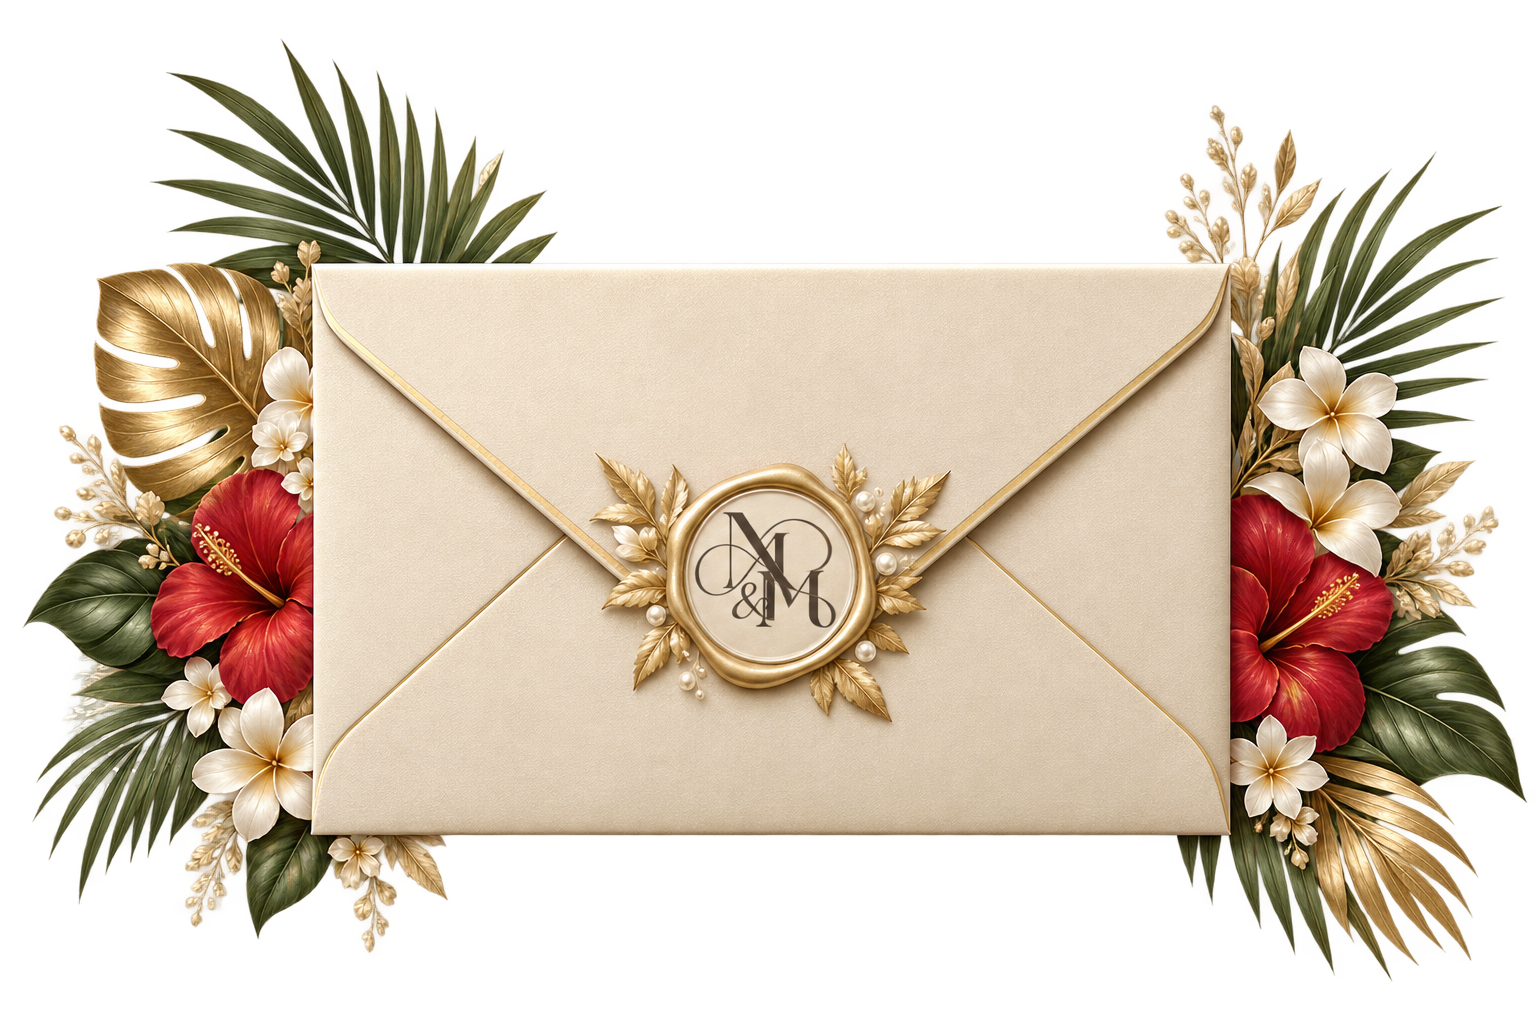
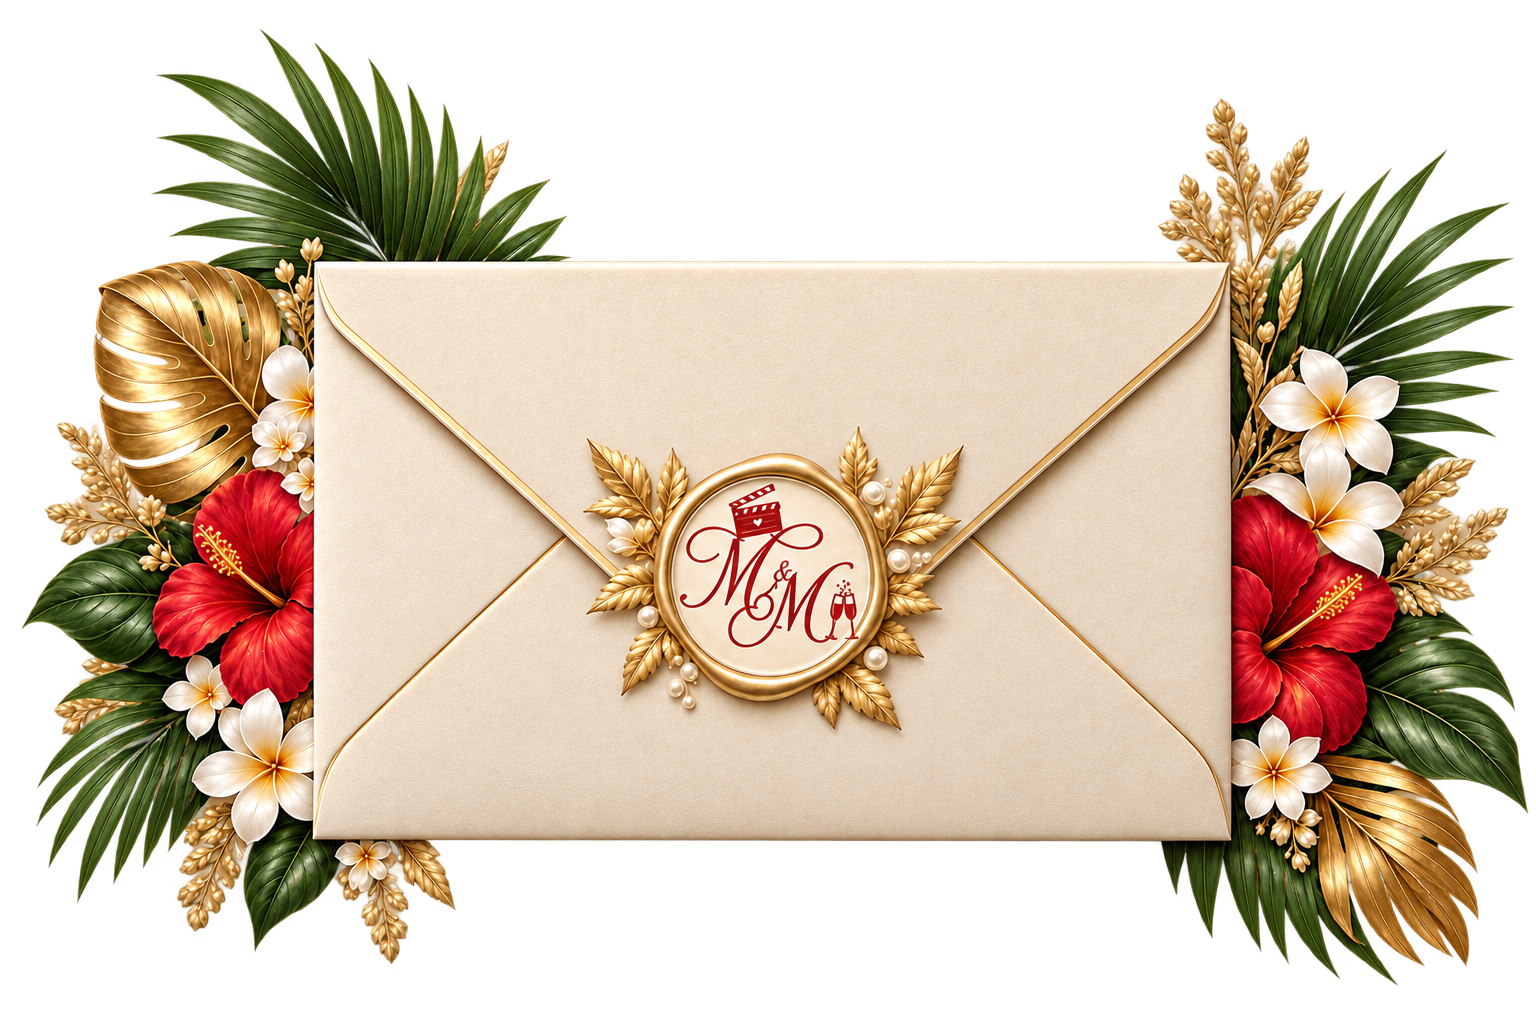
r

diff --git a/components/sections/RSVPSection.tsx b/components/sections/RSVPSection.tsx
@@ -129,20 +129,6 @@ export default function RSVPSection({ guestName }: { guestName?: string }) {
           <h2 className="font-serif text-5xl font-medium tracking-tight text-foreground md:text-7xl">
             You are <span className="relative inline-block text-primary">
               Invited
-              <motion.svg className="absolute -bottom-2 md:-bottom-4 left-0 w-full"
-                viewBox="0 0 100 20" preserveAspectRatio="none"
-                initial={{ pathLength: 0, opacity: 0 }}
-                animate={inView ? { pathLength: 1, opacity: 1 } : {}}
-                transition={{ duration: 1.5, delay: 0.5, ease: "easeInOut" }}
-              >
-                <motion.path
-                  d="M0 10 Q 25 20, 50 10 T 100 10"
-                  fill="none"
-                  stroke="#d79b73"
-                  strokeWidth="4"
-                  strokeLinecap="round"
-                />
-              </motion.svg>
             </span>
           </h2>
           <p className="mx-auto mt-8 max-w-lg text-lg text-[#7b6259] leading-relaxed">

diff --git a/components/sections/VenueLocation.tsx b/components/sections/VenueLocation.tsx
@@ -62,20 +62,6 @@ export default function VenueLocation() {
           <h2 className="font-serif text-4xl font-medium tracking-tight text-foreground sm:text-5xl md:text-7xl">
             Venue <span className="relative inline-block text-primary">
               Location
-              <motion.svg className="absolute -bottom-2 md:-bottom-4 left-0 w-full"
-                viewBox="0 0 100 20" preserveAspectRatio="none"
-                initial={{ pathLength: 0, opacity: 0 }}
-                animate={inView ? { pathLength: 1, opacity: 1 } : {}}
-                transition={{ duration: 1.5, delay: 0.5, ease: "easeInOut" }}
-              >
-                <motion.path
-                  d="M0 10 Q 25 20, 50 10 T 100 10"
-                  fill="none"
-                  stroke="var(--secondary)"
-                  strokeWidth="4"
-                  strokeLinecap="round"
-                />
-              </motion.svg>
             </span>
           </h2>
         </motion.div>

diff --git a/components/sections/CountdownSection.tsx b/components/sections/CountdownSection.tsx
@@ -147,20 +147,6 @@ export default function CountdownSection() {
           <h2 className="font-serif text-4xl font-medium tracking-tight text-foreground sm:text-5xl md:text-7xl">
             Counting Down to <span className="relative inline-block text-primary">
               Forever
-              <motion.svg className="absolute -bottom-2 md:-bottom-4 left-0 w-full"
-                viewBox="0 0 100 20" preserveAspectRatio="none"
-                initial={{ pathLength: 0, opacity: 0 }}
-                animate={inView ? { pathLength: 1, opacity: 1 } : {}}
-                transition={{ duration: 1.5, delay: 0.5, ease: "easeInOut" }}
-              >
-                <motion.path
-                  d="M0 10 Q 25 20, 50 10 T 100 10"
-                  fill="none"
-                  stroke="var(--secondary)"
-                  strokeWidth="4"
-                  strokeLinecap="round"
-                />
-              </motion.svg>
             </span>
           </h2>
 

diff --git a/components/sections/BlessingsSection.tsx b/components/sections/BlessingsSection.tsx
@@ -162,22 +162,6 @@ export default function BlessingsSection() {
             Blessings &{' '}
             <span className="relative inline-block text-[#9E1B1B]">
               Wishes
-              <motion.svg
-                className="absolute -bottom-2 left-0 w-full md:-bottom-4"
-                viewBox="0 0 100 20"
-                preserveAspectRatio="none"
-                initial={{ pathLength: 0, opacity: 0 }}
-                animate={inView ? { pathLength: 1, opacity: 1 } : {}}
-                transition={{ duration: 1.5, delay: 0.5, ease: 'easeInOut' }}
-              >
-                <motion.path
-                  d="M0 10 Q 25 20, 50 10 T 100 10"
-                  fill="none"
-                  stroke="#D4AF37"
-                  strokeWidth="4"
-                  strokeLinecap="round"
-                />
-              </motion.svg>
             </span>
           </h2>
 

diff --git a/components/sections/ParentsSection.tsx b/components/sections/ParentsSection.tsx
@@ -82,7 +82,7 @@ function ParentsSectionContent() {
               </div>
 
               <div className="space-y-4">
-                <p className="text-xs font-bold uppercase tracking-[0.3em] text-black">TO CELEBRATE THE MARRIAGE OF THEIR CHILDREN</p>
+                <p className="text-xs font-bold uppercase tracking-[0.3em] text-black">INVITE YOU TO CELEBRATE THE MARRIAGE OF THEIR CHILDREN</p>
                 <h3 className="font-serif text-3xl md:text-6xl text-primary font-bold uppercase tracking-widest leading-tight">MOHITH &amp; MALVIKA</h3>
               </div>
             </motion.div>

diff --git a/components/sections/StorySection.tsx b/components/sections/StorySection.tsx
@@ -119,9 +119,6 @@ export default function StorySection() {
             Our Love{' '}
             <span className="italic text-primary relative inline-block">
               Story
-              <svg className="absolute -bottom-1 left-0 w-full" viewBox="0 0 100 8" preserveAspectRatio="none">
-                <path d="M0 6 Q25 2 50 6 Q75 10 100 6" stroke="var(--primary)" strokeWidth="2.5" fill="none" strokeLinecap="round" />
-              </svg>
             </span>
           </h2>
         </motion.div>

diff --git a/components/sections/FooterSection.tsx b/components/sections/FooterSection.tsx
@@ -35,7 +35,7 @@ export default function FooterSection() {
               <span>2026</span>
             </div>
 
-            <div className="mt-12 space-y-6 text-white/80 font-medium">
+            <div className="mt-12 space-y-6 text-white font-medium">
               <p className="text-[10px] tracking-[0.3em]">&copy; {new Date().getFullYear()} MOHITH & MALVIKA</p>
 
               <p className="text-[8px] tracking-[0.2em] leading-relaxed">
